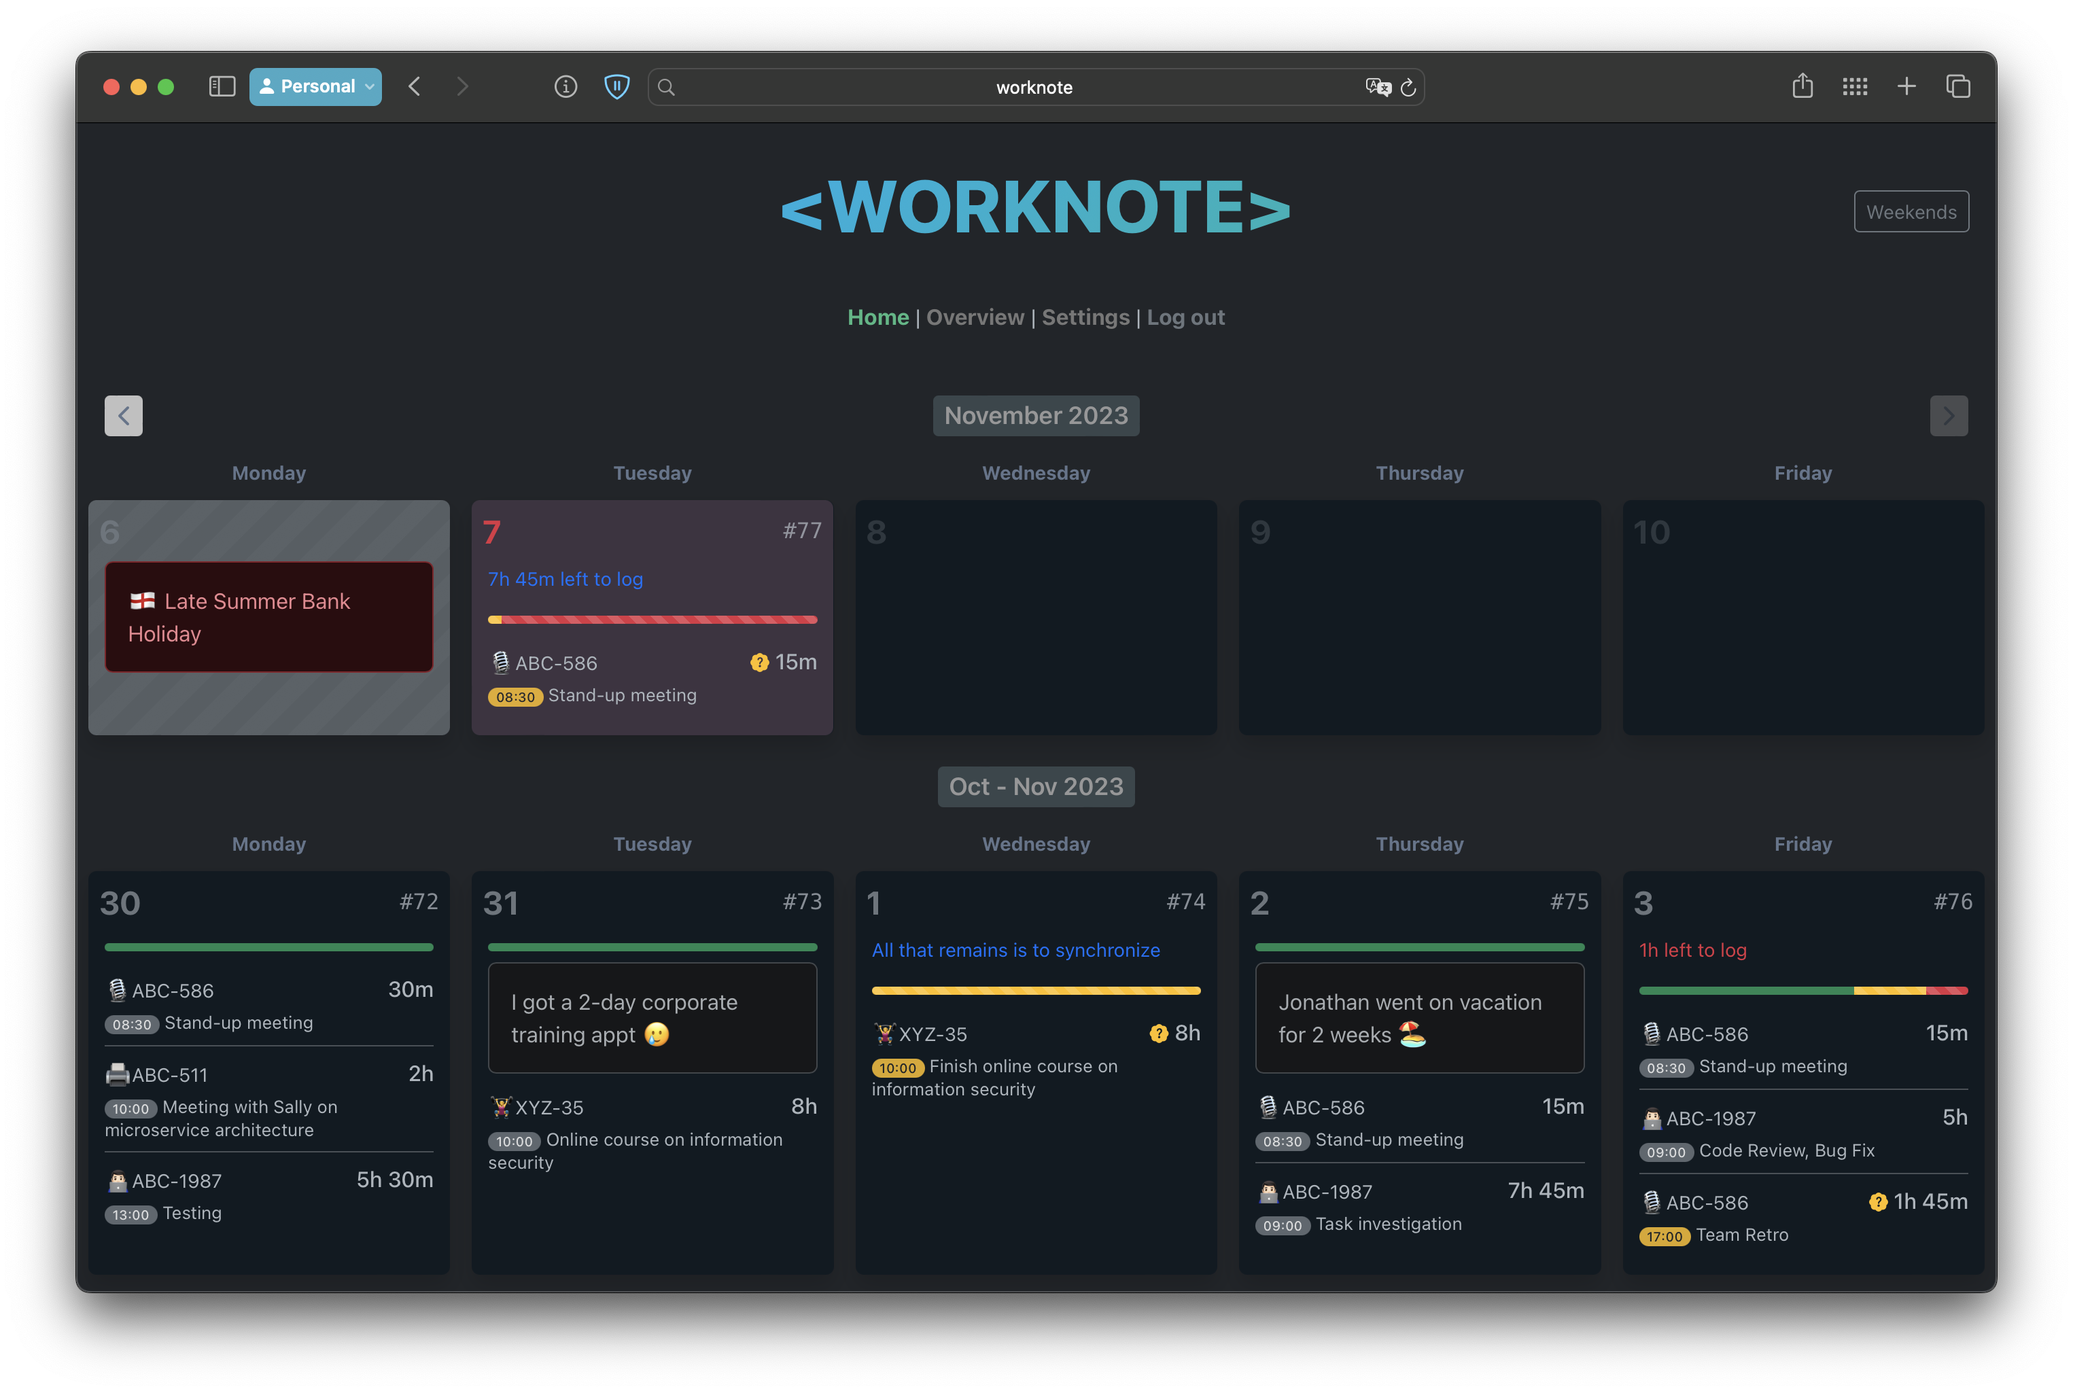
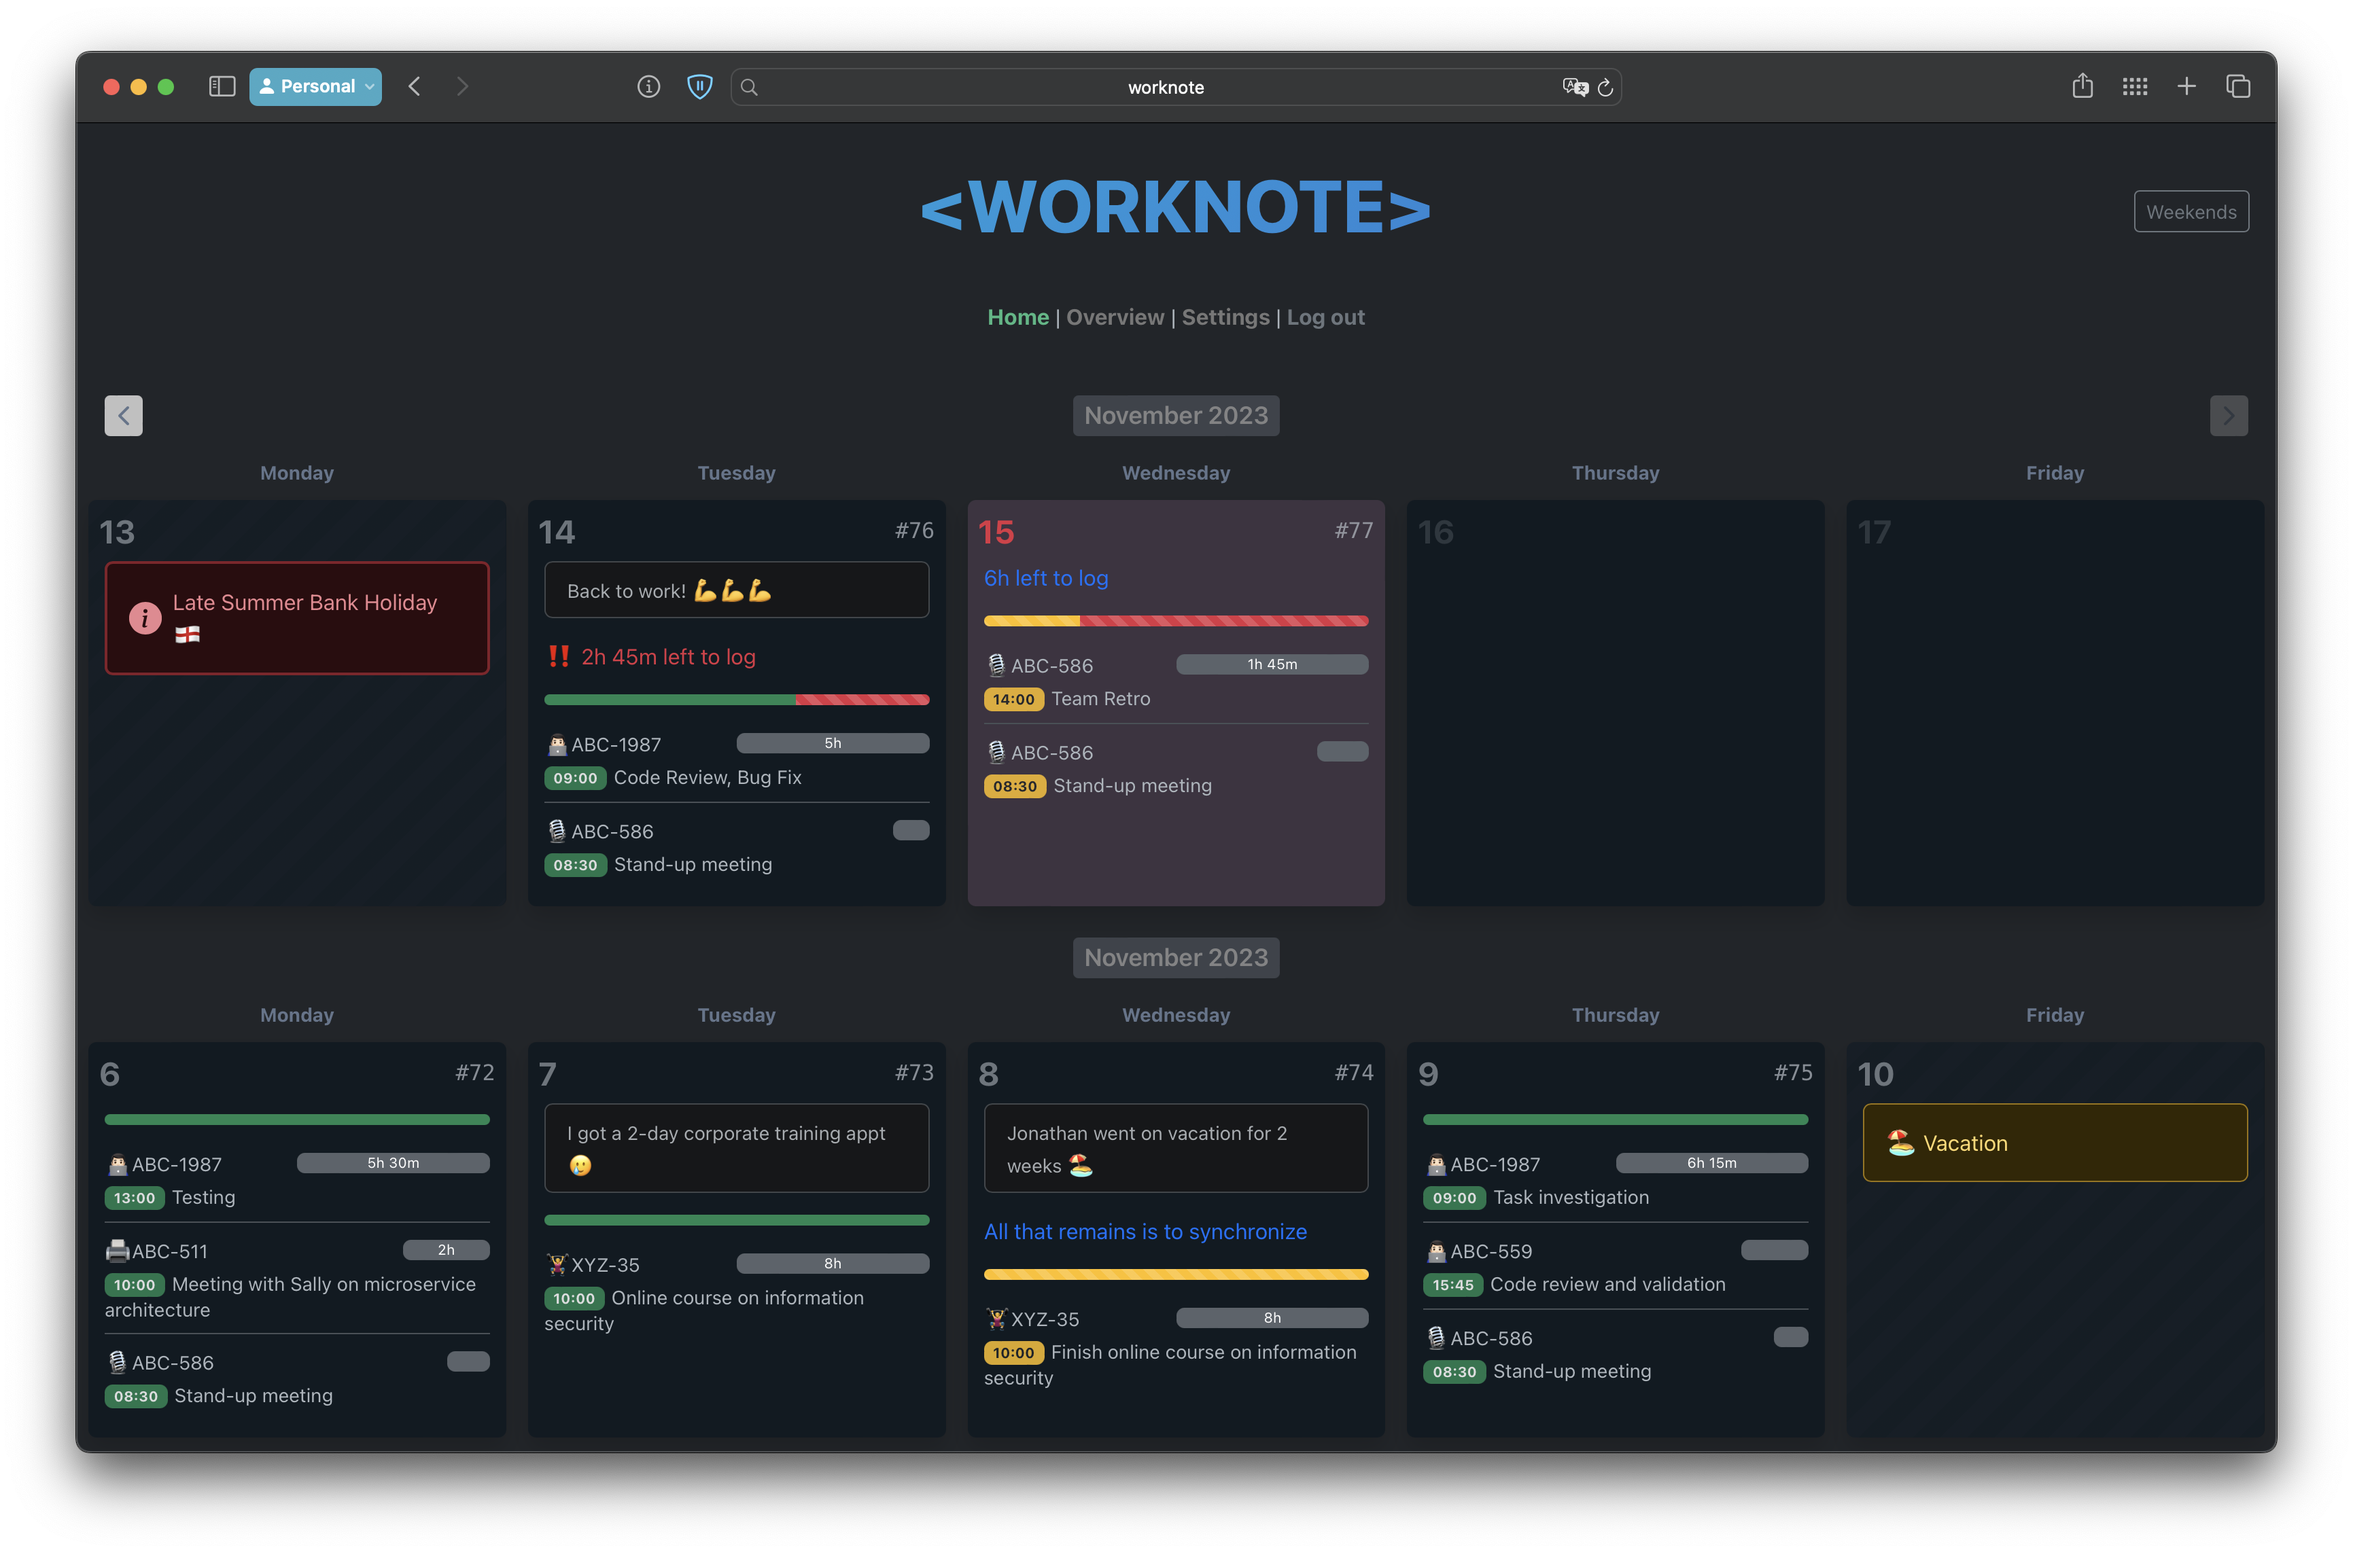
small visual improvements

diff --git a/frontend/src/components/ProgressBar.vue b/frontend/src/components/ProgressBar.vue
@@ -1,15 +1,16 @@
 <template>
     <p v-if="minutesRemain > 0" :class="{ 'text-primary': isToday || !isPast, 'text-danger': isPast && !isToday }">
-        <small>{{ helpText }}</small>
+        <span v-if="isPast && !isToday">‼ </span>
+        <span>{{ helpText }}</span>
     </p>
     <p v-if="minutesRemain == 0 && synchronized != total && exceedPercent == 0" class="text-primary">
-        <small>{{ $t('worklog.progress.needToSync') }}</small>
+        {{ $t('worklog.progress.needToSync') }}
     </p>
     <p v-if="exceedPercent > 0" class="text-danger">
-        <small>{{ $t('worklog.progress.exceeding', { minutes: minutesExceed }) }}</small>
+        {{ $t('worklog.progress.exceeding', { minutes: minutesExceed }) }}
     </p>
 
-    <div class="progress my-2" :style="{ height: big ? '16px' : '6px' }">
+    <div class="progress my-2" :style="{ height: big ? '16px' : '8px' }">
         <div :aria-valuenow="syncedPercent" aria-valuemin="0" aria-valuemax="100" class="progress-bar bg-success"
             :style="{ width: syncedPercent + '%' }" role="progressbar">
         </div>

diff --git a/frontend/src/components/WorklogList.vue b/frontend/src/components/WorklogList.vue
@@ -8,7 +8,7 @@
                     <small>{{ worklog.task.shortCode }}-{{ worklog.task.id }}</small>
                 </span>
                 <div class="d-flex w-50 flex-row-reverse">
-                    <div class="progress" style="height: 14px;" :style="{ width: progressBarWidths[worklog.id] + '%' }"
+                    <div class="progress" style="height: 15px;" :style="{ width: progressBarWidths[worklog.id] + '%' }"
                         :title="formatTime(worklog.durationInMinutes)">
                         <div class="progress-bar bg-secondary w-100" role="progressbar"
                             :aria-valuenow="progressBarWidths[worklog.id]">
@@ -99,5 +99,9 @@ export default defineComponent({
 
 .worklogs-compact-list :last-child {
     border-bottom: 0;
+}
+
+.progress-bar.bg-secondary {
+    --bs-bg-opacity: 0.7;
 }
 </style>

diff --git a/frontend/src/views/CalendarView.vue b/frontend/src/views/CalendarView.vue
@@ -1,4 +1,12 @@
 <template>
+  <!-- svg template for using in children components (for ex. holiday alerts) -->
+  <svg xmlns="http://www.w3.org/2000/svg" style="display: none;">
+    <symbol id="info-fill" fill="currentColor" viewBox="0 0 16 16">
+      <path
+        d="M8 16A8 8 0 1 0 8 0a8 8 0 0 0 0 16zm.93-9.412-1 4.705c-.07.34.029.533.304.533.194 0 .487-.07.686-.246l-.088.416c-.287.346-.92.598-1.465.598-.703 0-1.002-.422-.808-1.319l.738-3.468c.064-.293.006-.399-.287-.47l-.451-.081.082-.381 2.29-.287zM8 5.5a1 1 0 1 1 0-2 1 1 0 0 1 0 2z" />
+    </symbol>
+  </svg>
+
   <div class="position-absolute" style="top: 50px; right: 20px;">
     <button @click="handleClick" type="button" class="btn btn-outline-secondary btn-sm mb-2">
       {{ $t("calendar.toggleWeekends") }}

diff --git a/frontend/src/components/CalendarDay.vue b/frontend/src/components/CalendarDay.vue
@@ -18,8 +18,11 @@
                 🏖 {{ $t("calendar.vacation") }}
             </div>
 
-            <div v-if="dayInfo.additionalInfo" class="alert alert-danger" role="alert">
-                {{ dayInfo.additionalInfo }}
+            <div v-if="dayInfo.additionalInfo" class="alert alert-danger d-flex align-items-center border-2" role="alert">
+                <svg class="bi flex-shrink-0 me-2" width="24" height="24" role="img" aria-label="Info:">
+                    <use xlink:href="#info-fill" />
+                </svg>
+                <div>{{ dayInfo.additionalInfo }}</div>
             </div>
 
             <div v-if="dayInfo.summary && dayInfo.summary.length > 0" class="alert alert-secondary mb-3 py-2 px-3">

diff --git a/frontend/src/components/FullDayModal.vue b/frontend/src/components/FullDayModal.vue
@@ -200,6 +200,12 @@ export default defineComponent({
     .day-summary:empty:before {
         color: rgba(233, 233, 233, 0.15);
     }
+
+    .btn.btn-light {
+        --bs-btn-color: #c1c1c1;
+        --bs-btn-bg: #2e3541;
+        --bs-btn-border-color: #2e3237;
+    }
 }
 
 .modal-title:first-letter {

diff --git a/backend/src/main/java/es/e1sordo/worknote/services/impl/DemoCalendarServiceImpl.java b/backend/src/main/java/es/e1sordo/worknote/services/impl/DemoCalendarServiceImpl.java
@@ -32,15 +32,19 @@ public class DemoCalendarServiceImpl implements CalendarService {
     private static final JiraTaskEntity TASK_DEVELOPMENT_1 = new JiraTaskEntity(
             78L, 1987, ABCDEF_PROJECT, JiraTaskType.DEVELOPMENT, false, "Feature A", "Feature A", emptyList()
     );
+    private static final JiraTaskEntity TASK_DEVELOPMENT_2 = new JiraTaskEntity(
+            79L, 559, ABCDEF_PROJECT, JiraTaskType.DEVELOPMENT, false, "Feature B", "Feature B", emptyList()
+    );
     private static final JiraTaskEntity TASK_STUDY = new JiraTaskEntity(
-            79L, 35, XYZ_PROJECT, JiraTaskType.TRAINING_AND_DEVELOPMENT, false, "Trainings", "Trainings", emptyList()
+            80L, 35, XYZ_PROJECT, JiraTaskType.TRAINING_AND_DEVELOPMENT, false, "Trainings", "Trainings", emptyList()
     );
     private static final JiraTaskEntity TASK_MEETINGS = new JiraTaskEntity(
-            80L, 511, ABCDEF_PROJECT, JiraTaskType.ORGANIZING_ACTIVITIES, false, "Activities", "Activities", emptyList()
+            81L, 511, ABCDEF_PROJECT, JiraTaskType.ORGANIZING_ACTIVITIES, false, "Activities", "Activities", emptyList()
     );
 
     private static final Map<Integer, DemoDay> DEMO_DATA = Map.of(
             0, new DemoDay(
+                    false,
                     false,
                     false,
                     480,
@@ -48,55 +52,71 @@ public class DemoCalendarServiceImpl implements CalendarService {
                     77,
                     null,
                     List.of(
-                            new WorklogEntity(1L, null, LocalTime.of(8, 30), 15, "Stand-up meeting", TASK_DAILY, null, false)
+                            new WorklogEntity(1L, null, LocalTime.of(8, 30), 15, "Stand-up meeting", TASK_DAILY, null, false),
+                            new WorklogEntity(2L, null, LocalTime.of(14, 0), 105, "Team Retro", TASK_DAILY, null, false)
                     )
             ),
             1, new DemoDay(
-                    true,
                     false,
-                    0,
-                    "🏴 Late Summer Bank Holiday",
-                    null,
-                    null,
-                    List.of()
-            ),
-            2, new DemoDay(
                     false,
                     false,
                     480,
                     null,
                     76,
-                    null,
+                    "Back to work! 💪💪💪",
                     List.of(
                             new WorklogEntity(1L, null, LocalTime.of(8, 30), 15, "Stand-up meeting", TASK_DAILY, 77877L, true),
-                            new WorklogEntity(2L, null, LocalTime.of(9, 0), 300, "Code Review, Bug Fix", TASK_DEVELOPMENT_1, 454565L, true),
-                            new WorklogEntity(3L, null, LocalTime.of(17, 0), 105, "Team Retro", TASK_DAILY, null, false)
+                            new WorklogEntity(2L, null, LocalTime.of(9, 0), 300, "Code Review, Bug Fix", TASK_DEVELOPMENT_1, 454565L, true)
                     )
             ),
+            2, new DemoDay(
+                    true,
+                    false,
+                    false,
+                    0,
+                    "Late Summer Bank Holiday 🏴",
+                    null,
+                    null,
+                    List.of()
+            ),
             3, new DemoDay(
+                    true,
+                    true,
+                    false,
+                    0,
+                    null,
+                    null,
+                    null,
+                    List.of()
+            ),
+            4, new DemoDay(
+                    false,
                     false,
                     false,
                     480,
                     null,
                     75,
-                    "Jonathan went on vacation for 2 weeks 🏖",
+                    null,
                     List.of(
                             new WorklogEntity(1L, null, LocalTime.of(8, 30), 15, "Stand-up meeting", TASK_DAILY, 77877L, true),
-                            new WorklogEntity(2L, null, LocalTime.of(9, 0), 465, "Task investigation", TASK_DEVELOPMENT_1, 454565L, true)
+                            new WorklogEntity(2L, null, LocalTime.of(9, 0), 375, "Task investigation", TASK_DEVELOPMENT_1, 454565L, true),
+                            new WorklogEntity(3L, null, LocalTime.of(15, 45), 90, "Code review and validation", TASK_DEVELOPMENT_2, 4214565L, true)
                     )
             ),
-            4, new DemoDay(
+            5, new DemoDay(
+                    false,
                     false,
                     false,
                     480,
                     null,
                     74,
-                    null,
+                    "Jonathan went on vacation for 2 weeks 🏖",
                     List.of(
                             new WorklogEntity(2L, null, LocalTime.of(10, 0), 480, "Finish online course on information security", TASK_STUDY, null, false)
                     )
             ),
-            5, new DemoDay(
+            6, new DemoDay(
+                    false,
                     false,
                     false,
                     480,
@@ -107,7 +127,8 @@ public class DemoCalendarServiceImpl implements CalendarService {
                             new WorklogEntity(2L, null, LocalTime.of(10, 0), 480, "Online course on information security", TASK_STUDY, 454565L, true)
                     )
             ),
-            6, new DemoDay(
+            7, new DemoDay(
+                    false,
                     false,
                     false,
                     480,
@@ -123,6 +144,7 @@ public class DemoCalendarServiceImpl implements CalendarService {
     );
 
     record DemoDay(boolean nonWorkingDay,
+                   boolean vacation,
                    boolean reducedWorkingDay,
                    int workingMinutes,
                    String additionalInfo,
@@ -131,7 +153,7 @@ public class DemoCalendarServiceImpl implements CalendarService {
                    List<WorklogEntity> worklogs) {
         public Pair<DayEntity, List<WorklogEntity>> forDay(LocalDate day) {
             return Pair.of(
-                    new DayEntity(day, nonWorkingDay, false, reducedWorkingDay, workingMinutes, additionalInfo, sequenceNumber, summary),
+                    new DayEntity(day, nonWorkingDay, vacation, reducedWorkingDay, workingMinutes, additionalInfo, sequenceNumber, summary),
                     worklogs
             );
         }

diff --git a/backend/src/main/java/es/e1sordo/worknote/services/impl/RussianProductionCalendarServiceImpl.java b/backend/src/main/java/es/e1sordo/worknote/services/impl/RussianProductionCalendarServiceImpl.java
@@ -35,7 +35,6 @@ public class RussianProductionCalendarServiceImpl implements ProductionCalendarS
     @CacheEvict(value = PRODUCTION_DAYS_CACHE_NAME, allEntries = true)
     @Scheduled(fixedRateString = CACHE_TTL_IN_MILLIS)
     public void emptyCache() {
-        log.info("Emptying {} cache", PRODUCTION_DAYS_CACHE_NAME);
     }
 
     @Override
